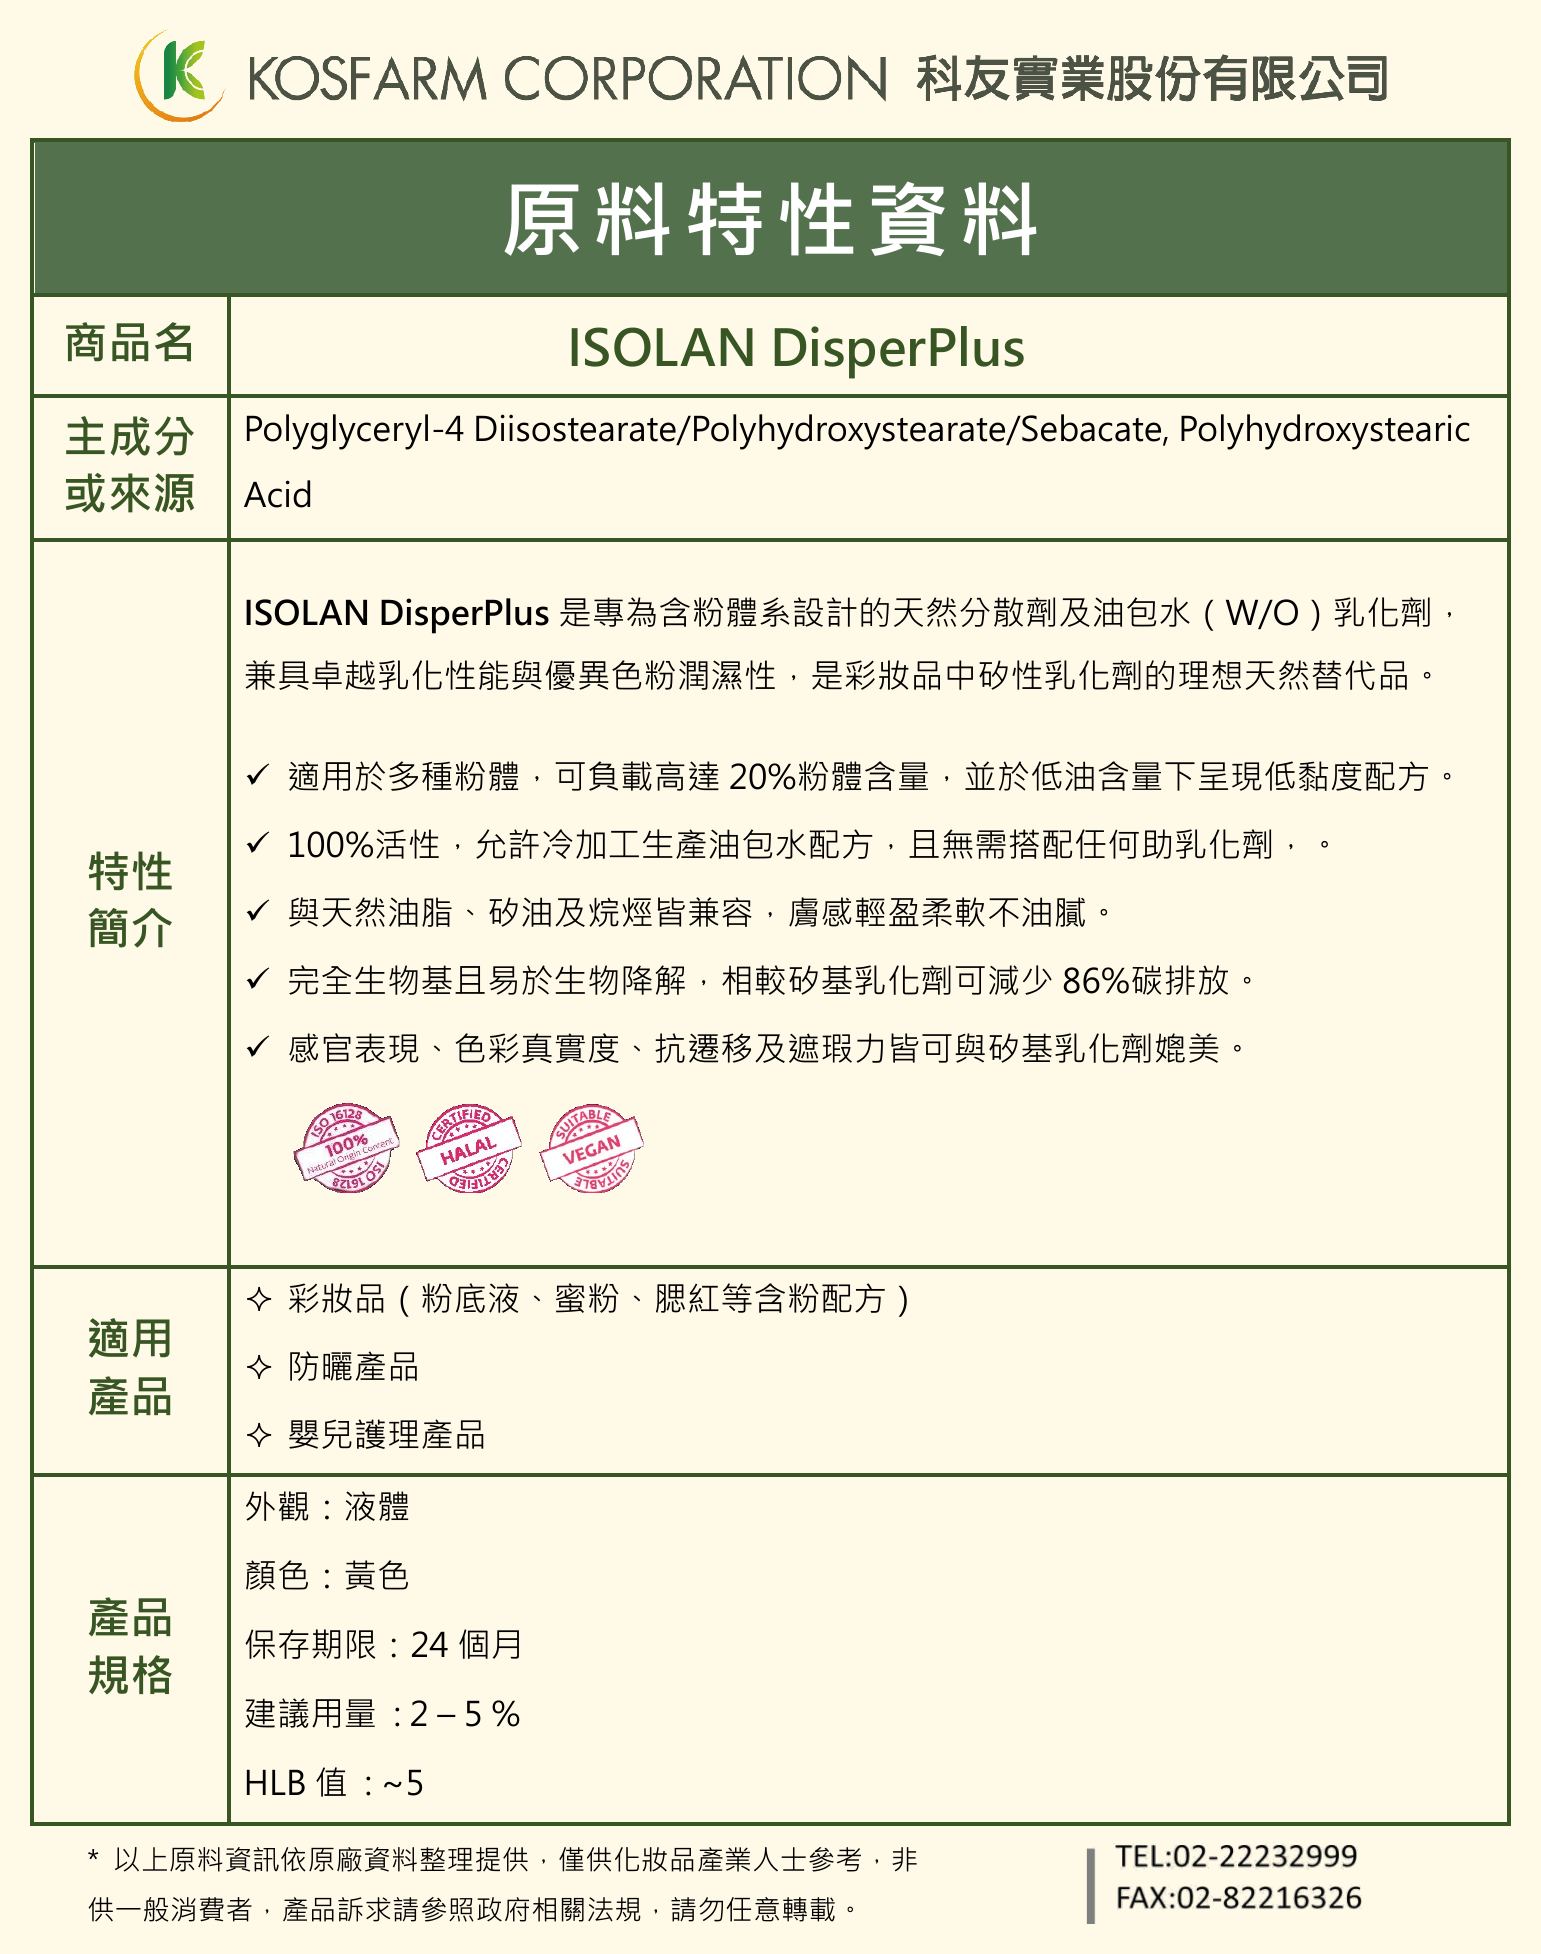
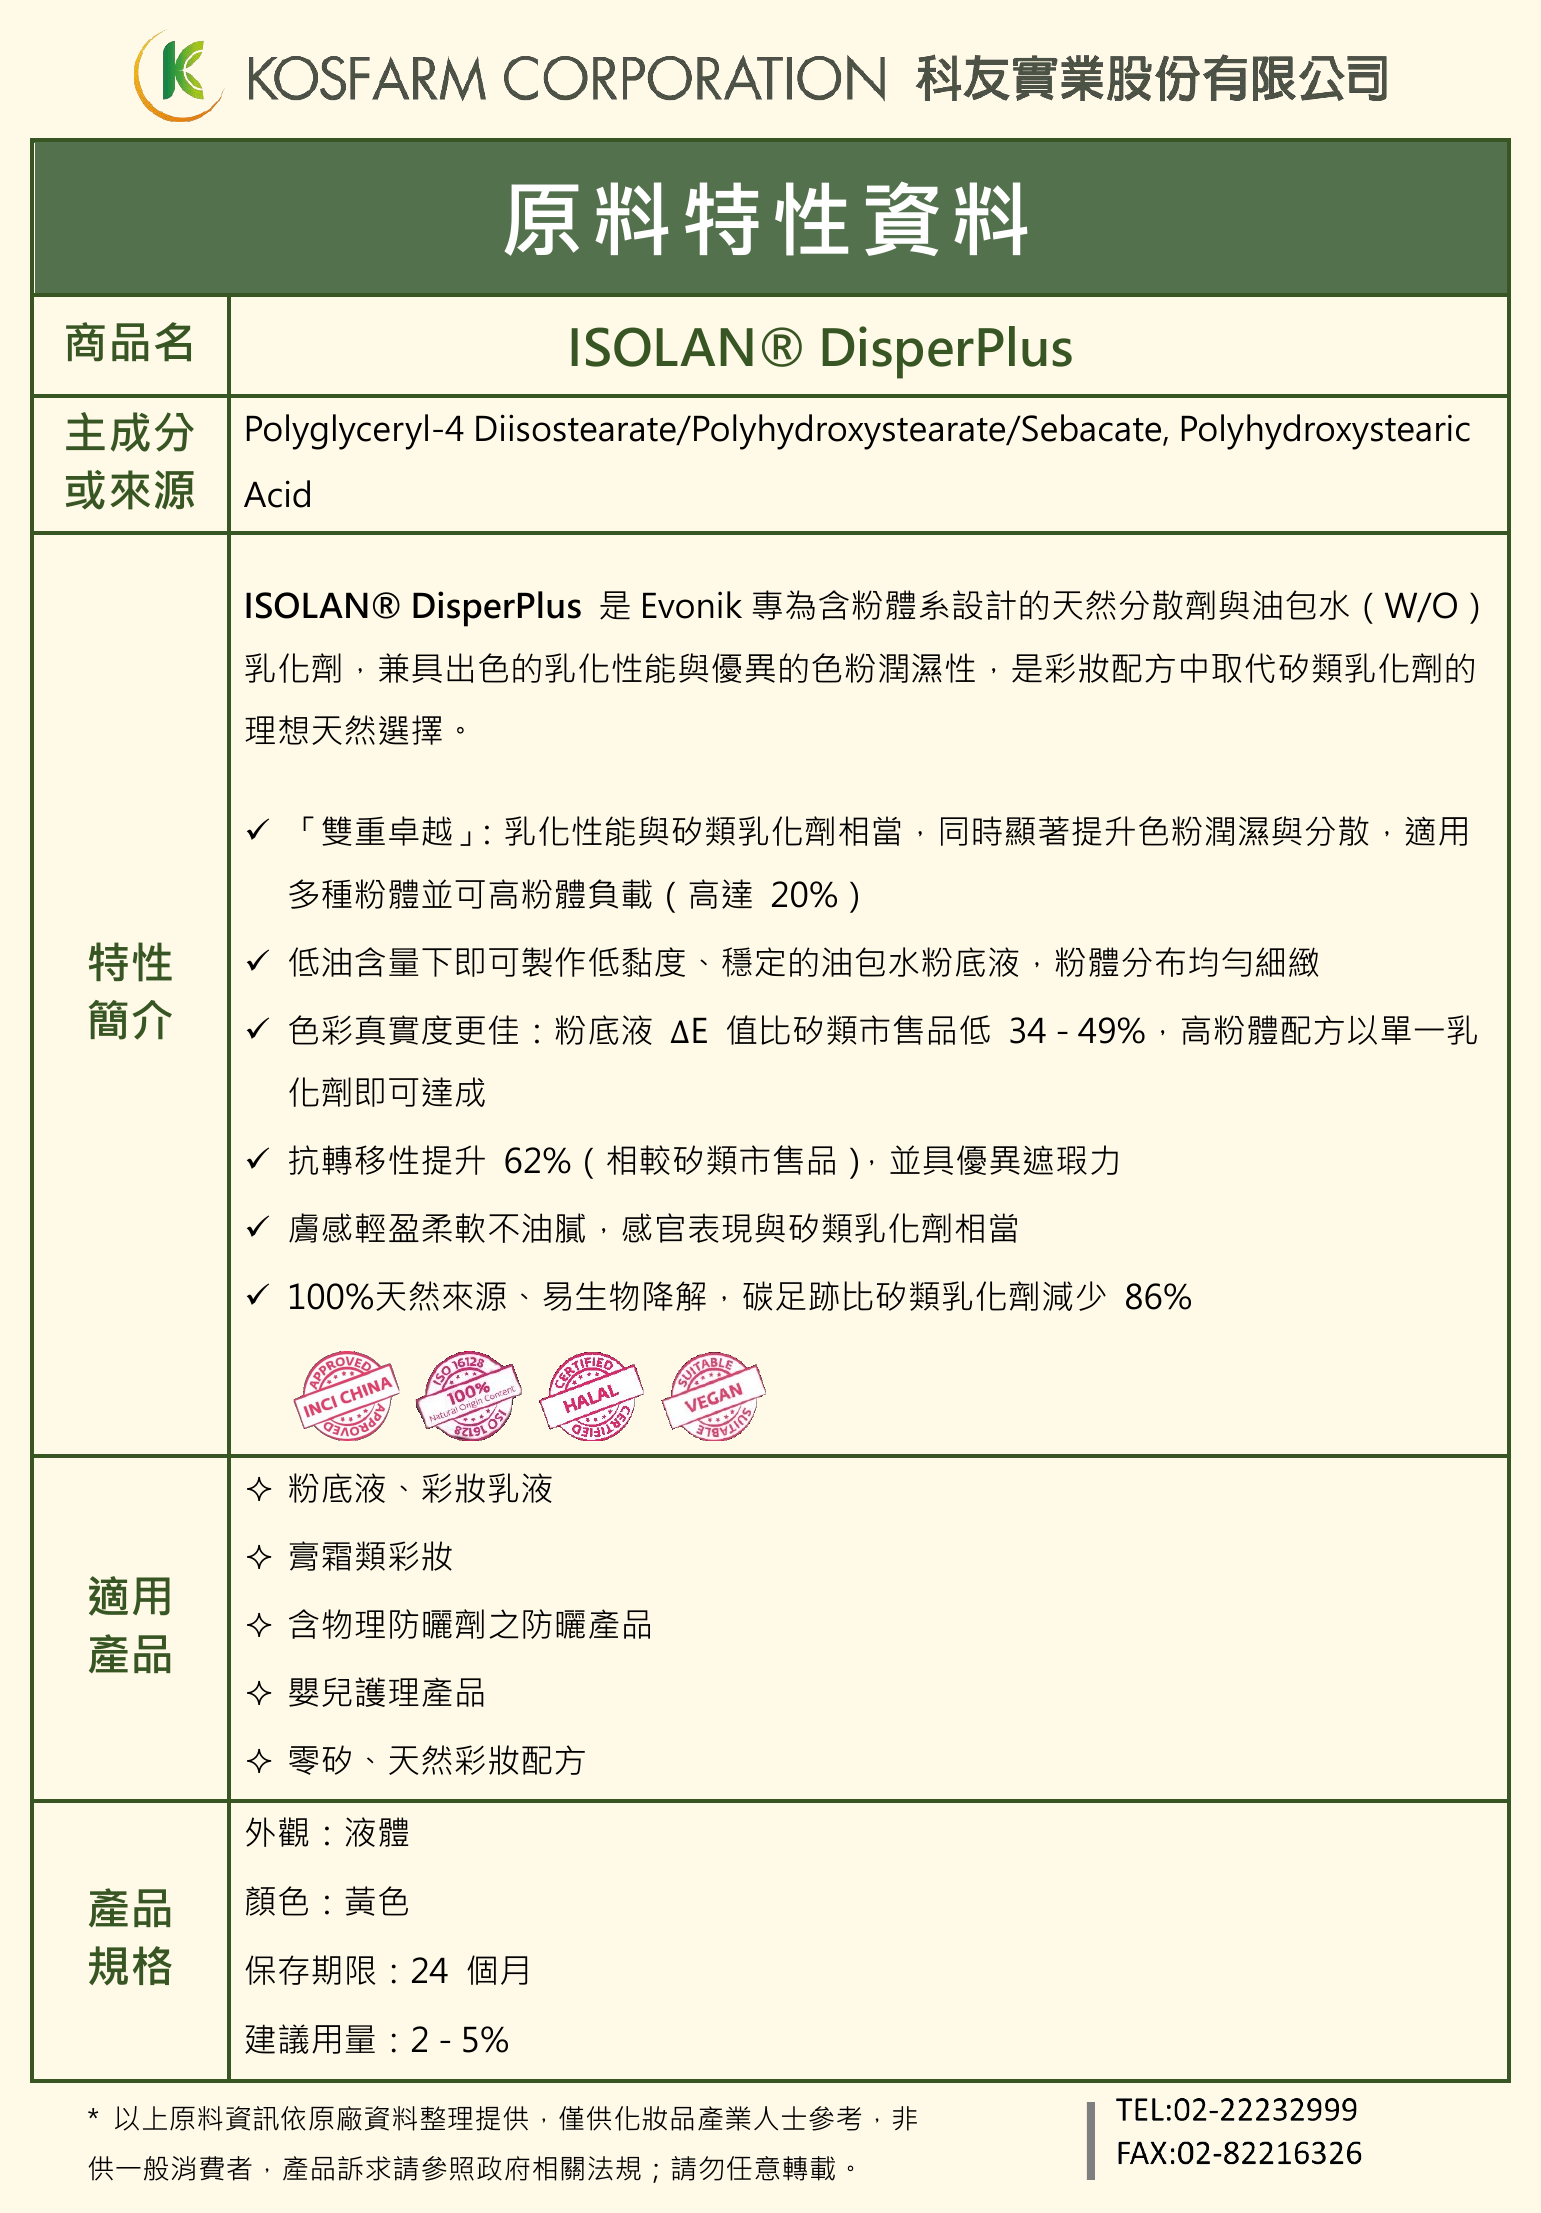
Add files via upload

diff --git a/index.html b/index.html
@@ -3,7 +3,7 @@
 <head>
   <meta charset="UTF-8" />
   <meta name="viewport" content="width=device-width, initial-scale=1.0" />
-  <title>ISOLAN DisperPlus｜科友實業股份有限公司</title>
+  <title>ISOLAN® DisperPlus｜科友實業股份有限公司</title>
   <style>
     * { margin: 0; padding: 0; box-sizing: border-box; }
     body { font-family: 'Noto Sans TC', 'Microsoft JhengHei', sans-serif; background: #fbf8e0; color: #333; }
@@ -29,11 +29,11 @@
 </head>
 <body>
   <header>
-    <img class="logo" src="https://kosfarm.github.io/kosfarm-covertrix/20230515科友LOGO_logo_中文全名標準字.png" alt="科友實業股份有限公司" />
+    <img class="logo" src="20230515科友LOGO_logo_中文全名標準字.png" alt="科友實業股份有限公司" />
   </header>
   <div class="hero">
     <div class="badge">原料樣品資訊</div>
-    <h1>ISOLAN DisperPlus</h1>
+    <h1>ISOLAN® DisperPlus</h1>
     <div class="sub">天然粉體分散劑</div>
   </div>
   <div class="content">
@@ -41,12 +41,12 @@
     <div class="section-label">原料 EDM</div>
     <div class="card">
       <div class="card-header"><span class="dot"></span> 產品行銷文件</div>
-      <img class="material-img" src="DisperPlus_EDM.jpg" alt="ISOLAN DisperPlus EDM" />
+      <img class="material-img" src="DisperPlus_EDM.jpg" alt="ISOLAN® DisperPlus EDM" />
     </div>
     <div class="section-label">原料中文單張</div>
     <div class="card">
       <div class="card-header"><span class="dot"></span> 中文產品說明</div>
-      <img class="material-img" src="DisperPlus_datasheet_cropped.png" alt="ISOLAN DisperPlus 中文單張" />
+      <img class="material-img" src="DisperPlus_datasheet_cropped.png" alt="ISOLAN® DisperPlus 中文單張" />
     </div>
   </div>
   <footer>
